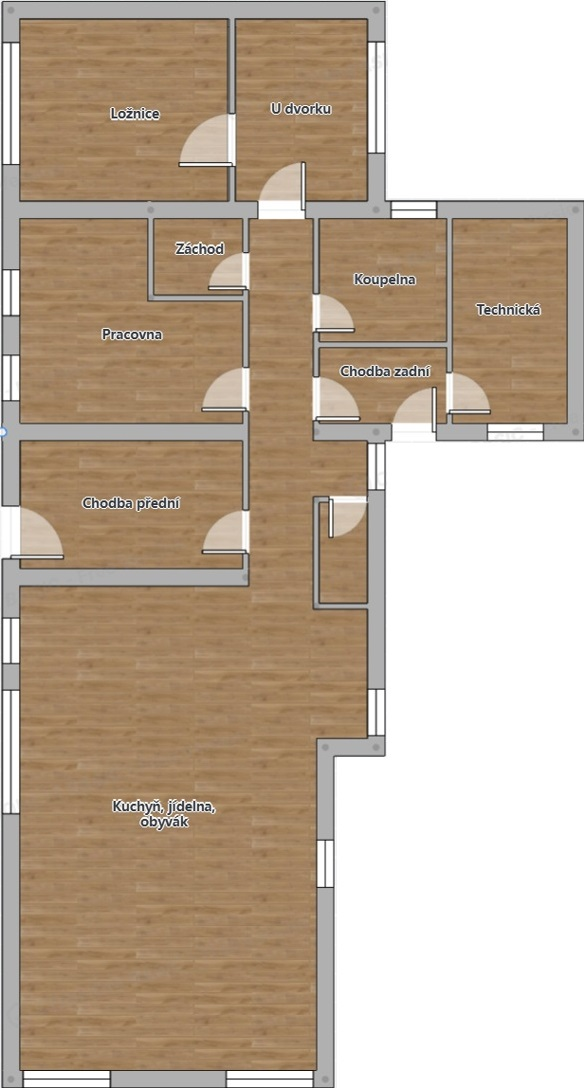
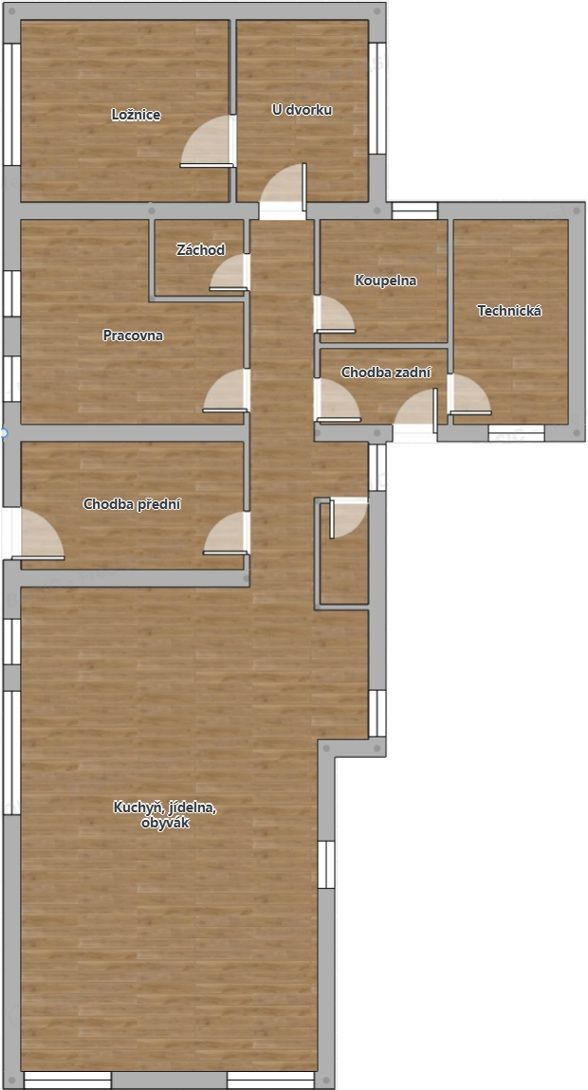
changing images of both floors and relocating louvers

diff --git a/home-controller/app/src/main/resources/servlet/content/configuration-pipe.js b/home-controller/app/src/main/resources/servlet/content/configuration-pipe.js
@@ -12,28 +12,28 @@ function initConfiguration() {
 
 function getLouversComponents() {
     return [
-        new LouversItem('lvLoznice', 45, 116, 0),
-        new LouversItem('lvPracovna', 45, 252, 0),
-        new LouversItem('lvPracovnaDvere', 45, 316, 0),
-        new LouversItem('lvKuchyn', 45, 547, 0),
-        new LouversItem('lvObyvak1', 45, 686, 0),
-        new LouversItem('lvObyvak2', 325, 842, 0),
-        new LouversItem('lvObyvak3', 121, 842, 0),
-        new LouversItem('lvObyvak4', 121, 774, 0),
-        new LouversItem('lvObyvak5', 192, 774, 0),
-        new LouversItem('lvObyvak6', 257, 774, 0),
-        new LouversItem('lvObyvak7', 325, 774, 0),
-        new LouversItem('lvObyvak8', 395, 709, 0),
-        new LouversItem('lvSchodiste', 425, 586, 0),
-        new LouversItem('lvSpajz', 422, 433, 0),
-        new LouversItem('lvKoupelnaDole', 457, 176, 0),
-        new LouversItem('lvDvorek', 412, 86, 0),
-        new LouversItem('lvDada', 42, 367, 1),
-        new LouversItem('lvOchoz', 459, 584, 1),
-        new LouversItem('lvMates2', 512, 424, 1),
-        new LouversItem('lvMates1', 554, 356, 1),
-        new LouversItem('lvKoupelnaHore', 455, 286, 1),
-        new LouversItem('lvJuju', 425, 123, 1),
+        new LouversItem('lvLoznice', 38, 106, 0),
+        new LouversItem('lvPracovna', 38, 290, 0),
+        new LouversItem('lvPracovnaDvere', 38, 379, 0),
+        new LouversItem('lvKuchyn', 38, 641, 0),
+        new LouversItem('lvObyvak1', 38, 753, 0),
+        new LouversItem('lvObyvak2', 67, 1050, 0),
+        new LouversItem('lvObyvak3', 270, 1050, 0),
+        new LouversItem('lvObyvak4', 67, 967, 0),
+        new LouversItem('lvObyvak5', 137, 967, 0),
+        new LouversItem('lvObyvak6', 206, 967, 0),
+        new LouversItem('lvObyvak7', 270, 967, 0),
+        new LouversItem('lvObyvak8', 300, 861, 0),
+        new LouversItem('lvSchodiste', 351, 713, 0),
+        new LouversItem('lvSpajz', 351, 473, 0),
+        new LouversItem('lvKoupelnaDole', 412, 242, 0),
+        new LouversItem('lvDvorek', 351, 100, 0),
+        new LouversItem('lvDada', 39, 380, 1),
+        new LouversItem('lvOchoz', 350, 658, 1),
+        new LouversItem('lvMates2', 550, 401, 1),
+        new LouversItem('lvMates1', 550, 316, 1),
+        new LouversItem('lvKoupelnaHore', 418, 242, 1),
+        new LouversItem('lvJuju', 350, 100, 1),
 
     ];
 }
@@ -48,8 +48,8 @@ function getSensorComponents() {
 
 function getComponents() {
     return [
-        new StairsItem('stairsUp', 381, 518, 0, 1, '▲'),
-        new StairsItem('stairsDown', 420, 518, 1, 0, '▼'),
+        new StairsItem('stairsUp', 339, 561, 0, 1, '▲'),
+        new StairsItem('stairsDown', 339, 561, 1, 0, '▼'),
     ].concat(getLouversComponents());
 }
 

diff --git a/home-controller/app/src/main/resources/servlet/content/configuration-pi.js b/home-controller/app/src/main/resources/servlet/content/configuration-pi.js
@@ -1,7 +1,7 @@
 'use strict';
 
 function getFloorImages() {
-    return ['1stFloor.jpg', '2ndFloor.jpg'];
+    return ['img/1stFloor.jpg', 'img/2ndFloor.jpg'];
 }
 
 function initConfiguration() {

diff --git a/home-controller/app/src/main/resources/servlet/content/configuration-ondra.js b/home-controller/app/src/main/resources/servlet/content/configuration-ondra.js
@@ -1,7 +1,7 @@
 'use strict';
 
 function getFloorImages() {
-    return ['1stFloor-ondra.png'];
+    return ['img/1stFloor-ondra.png'];
 }
 
 function initConfiguration() {
